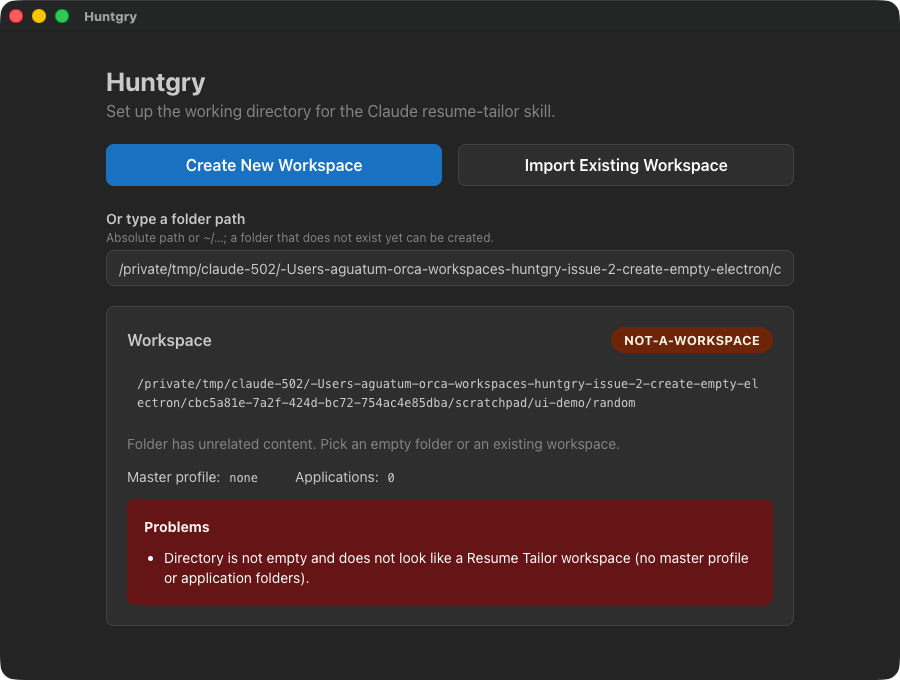
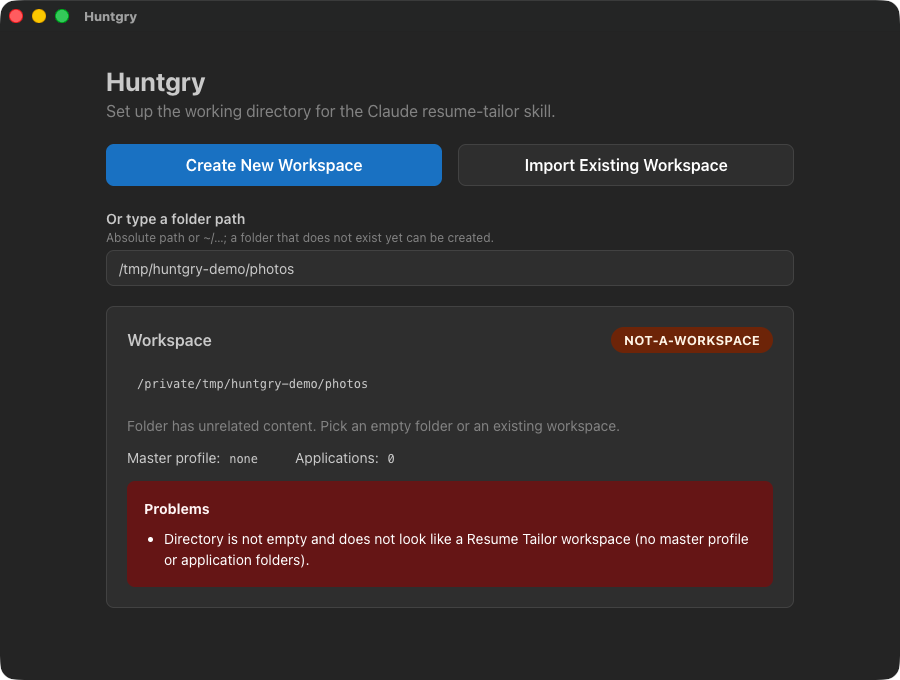
docs: retake screenshots with neutral paths and document review fixes
The committed screenshots showed absolute temp paths containing the local
username and internal session names. They are retaken against
/tmp/huntgry-demo, and the PNG eXIf/iTXt metadata chunks are stripped. The
change notes now cover the dangling-root, master-profile file validation,
opendir-bounded reads and stale-UI fixes from review, and the new test count.

Refs #2

Changed region(s): [[0.1244, 0.5559, 0.8711, 0.8956], [0.1244, 0.3706, 0.8711, 0.4015]]

diff --git a/docs/changes/2-electron-workspace-shell.md b/docs/changes/2-electron-workspace-shell.md
@@ -104,7 +104,9 @@ flowchart TD
     start(["inspectWorkspace(path)"]) --> abs{absolute path?}
     abs -- no --> invalid[invalid]
     abs -- yes --> exists{"realpath() ok?"}
-    exists -- ENOENT --> parent{"parent is a<br/>writable dir?"}
+    exists -- ENOENT --> dangling{"dangling symlink?<br/>(lstat)"}
+    dangling -- yes --> invalid
+    dangling -- no --> parent{"parent is a<br/>writable dir?"}
     parent -- yes --> missing[missing]
     parent -- no --> invalid
     exists -- other error --> invalid
@@ -112,7 +114,7 @@ flowchart TD
     dir -- no --> invalid
     dir -- yes --> entries{"entries other than<br/>.DS_Store/.git/…?"}
     entries -- none --> empty[empty]
-    entries -- some --> mp{master profile at root?}
+    entries -- some --> mp{"readable regular-file<br/>master profile at root?"}
     mp -- "master-profile.md" --> valid["valid (v3)"]
     mp -- "master_profile.md" --> legacy["legacy"]
     mp -- none --> apps{"≥1 role/company/job-id<br/>folder with a build.py artifact?"}
@@ -154,8 +156,22 @@ Create and Import behaviour per status:
   Remembering the current workspace goes to `userData/settings.json`, outside the workspace.
   Tests snapshot mode, size, mtime and content before and after.
 - **Symlinks.** A symlinked *root* is resolved with `realpath`, and the target is inspected and
-  displayed. Inside the scan, `Dirent` types are used (lstat semantics), so symlinks are never
-  followed. The scan is bounded to depth 3 and 5,000 entries, so picking `~` or `/` cannot hang.
+  displayed. A *dangling* root symlink is `invalid`, not `missing`, so Create is never offered
+  on a path where `mkdir` would fail. Inside the scan, `Dirent` types are used (lstat
+  semantics), so symlinks are never followed.
+- **Master profile must be a readable regular file.** A directory, a dangling link or an
+  unreadable file named `master-profile.md` is ignored with a warning, and detection falls
+  through to `master_profile.md` or application folders. A symlink is resolved explicitly (this
+  one well-known file, not a traversal) and accepted only if its target is a readable regular
+  file, even one outside the workspace, such as a dotfiles repo. A warning shows where it points.
+- **Bounded reads.** Directories are streamed with `opendir()` rather than loaded with
+  `readdir()`. One budget of 5,000 entries covers the root listing and the depth-3
+  application scan, and reading stops the moment it runs out, so picking `~` or `/` cannot
+  hang or allocate a huge array. If the root listing is cut short, the master profile and
+  cover letter are looked up by name, and the truncation is reported as a warning.
+- **No stale actions in the UI.** Changing the typed path clears the status card at once, and
+  results of older in-flight inspections are dropped (generation counter). "Create workspace
+  here" and "Import this workspace" therefore always refer to the folder in the input.
 - **Typed path input.** macOS folder pickers can only return existing folders (their "New
   Folder" button creates the folder at once). To cover "a new directory that does not yet
   exist", the UI also accepts a typed path with live read-only status and a contextual
@@ -164,13 +180,13 @@ Create and Import behaviour per status:
   `workspace/settings.ts`, with the path injected by `ipc.ts`. That keeps every fs call in
   one tested, Electron-free module.
 - **No Playwright yet.** The logic worth testing is the pure workspace module, which has
-  24 tests. An Electron smoke test belongs with packaging.
+  33 tests. An Electron smoke test belongs with packaging.
 
 ## How to test
 
 ```bash
 npm install
-npm test            # 24 vitest cases, temp dirs, no Electron
+npm test            # 33 vitest cases, temp dirs, no Electron
 npm run typecheck
 npm run build
 npm run dev         # manual check
